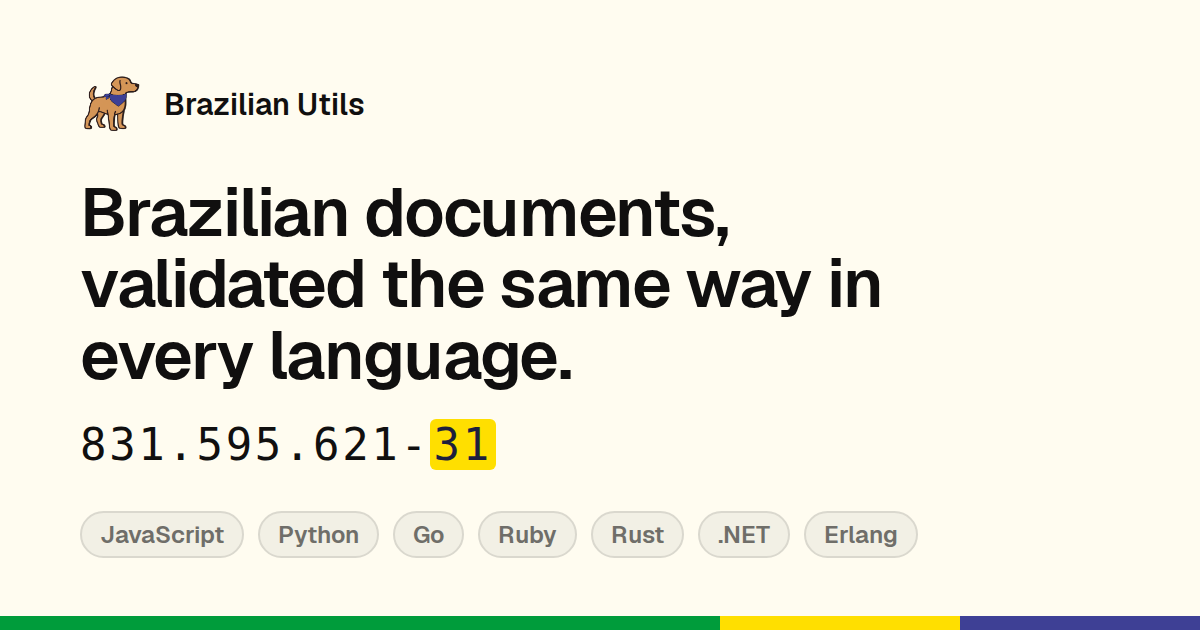
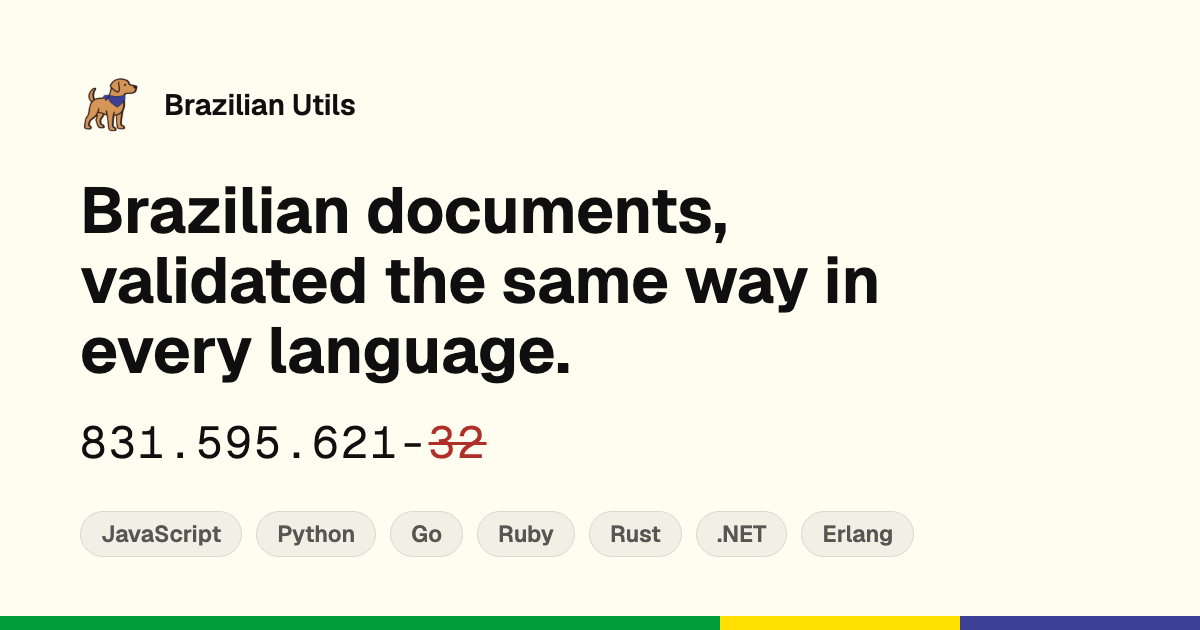
Share image: an invalid CPF, struck in the fail color (#10)
* site: the share image shows an invalid CPF, struck like the home page shows one

The CPF on og.png passed the check digits, so it could be somebody's. It now breaks the last one
(831.595.621-32) and strikes the check digits in the fail color, the way the home page shows a
number that fails. The image is generated by `npm run og` (scripts/og.mjs) from the site's fonts,
icon and libraries, instead of being a file nobody could rebuild.

Claude-Session: https://claude.ai/code/session_01RaUEDkvXY8rVWTJG2GKfhu

* site: the share image's struck check digits sit on the fail color, like the yellow mark of a valid one

Claude-Session: https://claude.ai/code/session_01RaUEDkvXY8rVWTJG2GKfhu

* site: back to the struck check digits without a background, like the home page

Claude-Session: https://claude.ai/code/session_01RaUEDkvXY8rVWTJG2GKfhu

---------

diff --git a/site/README.md b/site/README.md
@@ -151,9 +151,12 @@ Com `--strict`, o script falha no CI quando falta a versão de um idioma.
 ## SEO, desempenho e acessibilidade
 
 - Cada página tem título, descrição, URL canônica, `hreflang` para o outro idioma, Open Graph e
-  Twitter card (`public/og.png`). A home tem dados estruturados (JSON-LD: site, organização,
-  uma `SoftwareSourceCode` por biblioteca). O build gera `sitemap.xml` (com os pares de idioma)
-  e `robots.txt`.
+  Twitter card (`public/og.png`, gerada por `npm run og`). O título de uma util diz o que ela faz
+  e em que linguagens ("Validar, formatar e gerar CPF em JavaScript, Python e mais"), montado das
+  funções do contrato (`src/lib/meta.ts`). A home tem dados estruturados (JSON-LD: site,
+  organização, uma `SoftwareSourceCode` por biblioteca); as outras páginas, breadcrumb e
+  `TechArticle`. O build gera `sitemap.xml` (com os pares de idioma e `lastmod` do último commit
+  da página) e `robots.txt`.
 - A busca roda no navegador sobre um índice gerado no build (`/api/search`). O motor e o índice
   só carregam quando alguém abre a busca.
 - Os links não fazem prefetch: num host estático, cada prefetch é uma requisição, e há páginas
